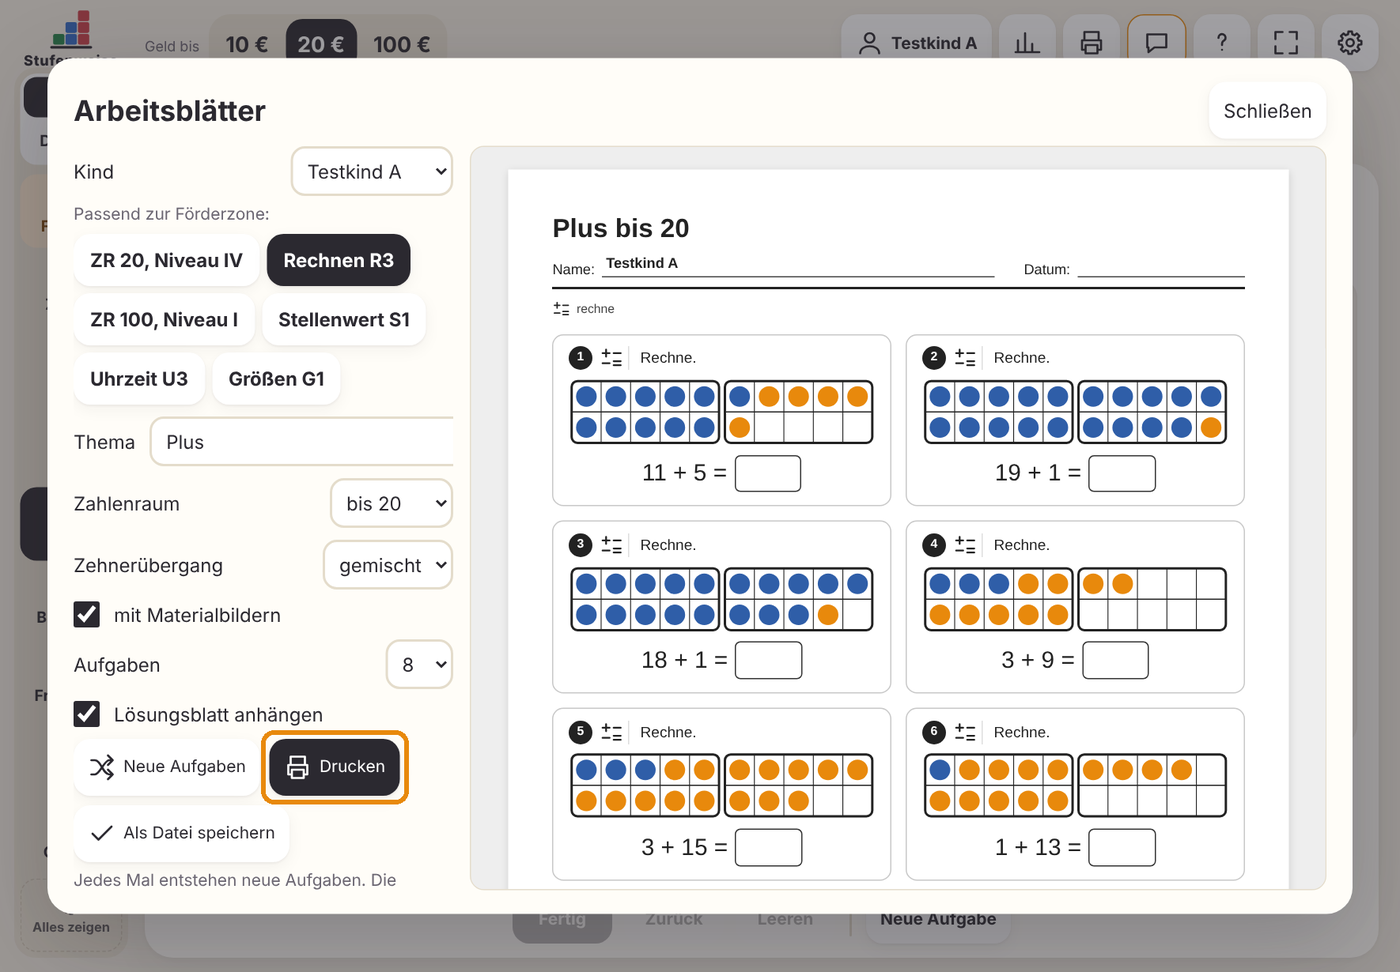
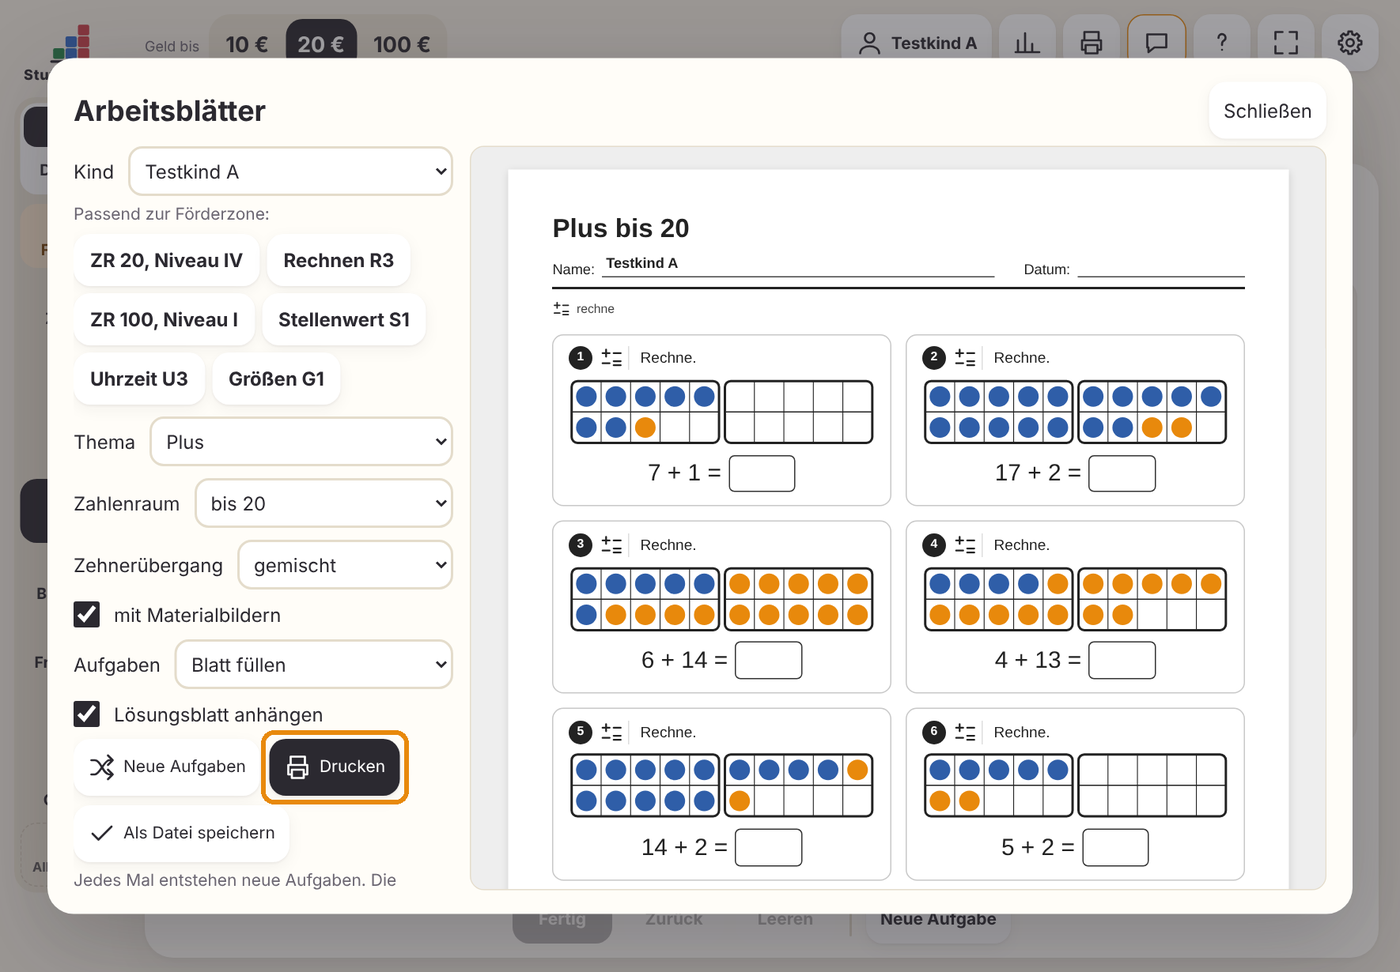
Leiste rückt bei Platzmangel in eigene Zeile, Arbeitsblatt passend zur Rechenstufe
- Einmaleins-Reihe 10 und Uhr „Kalender“ waren auf iPad-Breite verdeckt
- Förderzone R2–R5 setzt den Zehnerübergang des Arbeitsblatts (ohne/mit)
- Auswahlfelder im Arbeitsblatt-Fenster nicht mehr abgeschnitten
- Anleitung: Blatt füllen und Material zeichnen

Claude-Session: https://claude.ai/code/session_01EfzymwAbpKsU1A9roa6mnc

diff --git a/index.html b/index.html
@@ -42,7 +42,7 @@ input:focus{border-color:var(--ink);outline:none}
 .rail{display:flex;flex-direction:column;gap:10px;padding:12px 4px 12px 12px;width:112px;overflow-y:auto;overflow-x:hidden;scrollbar-width:thin}
 main{padding:12px 18px 12px 10px;height:100%;min-height:0;min-width:0;display:flex;flex-direction:column;gap:10px}
 .vh{position:absolute!important;width:1px;height:1px;overflow:hidden;clip:rect(0 0 0 0);white-space:nowrap}
-.topbar{display:flex;align-items:flex-start;gap:12px}
+.topbar{display:flex;align-items:flex-start;gap:12px}.topbar.stack{flex-direction:column-reverse;align-items:stretch;gap:6px}.topbar.stack .top-tools{justify-content:flex-end}
 .topbar .toolbar{flex:1;min-width:0}
 .brand{display:flex;align-items:center;justify-content:center;padding:4px 0 2px}
 .brand svg{width:40px;height:40px;flex:none}
@@ -501,7 +501,7 @@ button.brand{background:none;box-shadow:none;border:0;padding:4px 0 2px;min-heig
 #dlg-sheet{width:min(1100px,96vw);height:min(900px,94vh)}
 #dlg-sheet[open]{display:flex;flex-direction:column}
 #sheet-body{display:grid;grid-template-columns:320px 1fr;gap:14px;flex:1;min-height:0}
-.sheet-form{display:flex;flex-direction:column;gap:10px;overflow:auto}
+.sheet-form{display:flex;flex-direction:column;gap:10px;overflow:auto}.sheet-form .row{min-width:0}.sheet-form select{min-width:0;max-width:100%;flex:1 1 auto}#sh-topic{width:100%}
 .sh-zones{display:flex;flex-wrap:wrap;gap:6px;align-items:center}
 #sh-frame{width:100%;height:100%;border:1px solid var(--line);border-radius:12px;background:#eee}
 @media(min-width:761px){.rail.compact{width:158px}}
@@ -1203,7 +1203,15 @@ function guideFix(){
   if(app.mode === 'read'){ const l = String(app.read.lvl); if(!g.lvlOk(l)){ app.read.lvl = g.first(l[0]); app.read.item = null; } return; }
   if(g.modes && !g.modes.has(app.mode)){ const set = zoneReport(curProfile().id, 'M').zones[0]?.info.offer?.set; if(set && set.mode !== 'read'){ applyOffer(set); return true; } app.mode = 'number'; }
 }
-function render(){ if(guideFix()) return; $('#btn-fb').hidden = settings.fbOn === false; renderTop(); renderWork(); }
+function render(){ if(guideFix()) return; $('#btn-fb').hidden = settings.fbOn === false; renderTop(); renderWork(); fitTop(); }
+/* Passt die Einstellungsleiste nicht neben die Knöpfe oben rechts, rückt sie in eine eigene Zeile (sonst verschwinden z. B. die 10er-Reihe oder „Kalender“) */
+function fitTop(){
+  const tb = document.querySelector('.topbar'), t = tb?.querySelector('.toolbar'); if(!t) return;
+  tb.classList.remove('stack');
+  const r = t.getBoundingClientRect().right;
+  if([...t.querySelectorAll('button, label, span, input, select')].some(e => { const b = e.getBoundingClientRect(); return b.width && b.right > r + 1; })) tb.classList.add('stack');
+}
+addEventListener('resize', () => { clearTimeout(fitTop.t); fitTop.t = setTimeout(fitTop, 120); });
 function renderWork(before){
   $('#btn-say').hidden = true;
   if(app.mode === 'free') return renderFree(before);
@@ -5112,7 +5120,7 @@ function zoneToSheet(key){
   if(ax === 'W') return {topic:`W:${a}`};
   if(ax === 'U') return {topic:`U:${a}`};
   if(ax === 'G') return {topic:`G:${a}`};
-  if(ax === 'R') return a === 'R7' ? {topic:'M:einmaleins'} : {topic:'M:plus', zr: R_CONF[a].range};
+  if(ax === 'R') return a === 'R7' ? {topic:'M:einmaleins'} : {topic:'M:plus', zr: R_CONF[a].range, ue: ({without:'ohne', with:'mit'})[R_CONF[a].ten] || 'egal'};
   return null;
 }
 app.sheet = {pid:null, topic:'M:plus', zr:20, n:'fill', sol:true, mat:true, ue:'egal', wop:'both', wzr:1000};
@@ -5166,7 +5174,7 @@ function sheetFit(fr){
 function openSheets(pid, zoneKey){
   const S = app.sheet;
   S.pid = pid ?? (data.current || 'none');
-  if(zoneKey){ const z = zoneToSheet(zoneKey); if(z){ S.topic = z.topic; if(z.zr) S.zr = z.zr; } }
+  if(zoneKey){ const z = zoneToSheet(zoneKey); if(z){ S.topic = z.topic; if(z.zr) S.zr = z.zr; S.ue = z.ue || 'egal'; } }
   $('#dlg-sheet').showModal(); renderSheets();
 }
 function renderSheets(keep){
@@ -5176,7 +5184,7 @@ function renderSheets(keep){
   const sel = (id, opts, cur) => `<select id="${id}">${opts.map(([v, n]) => `<option value="${v}" ${String(v) === String(cur) ? 'selected' : ''}>${n}</option>`).join('')}</select>`;
   $('#sheet-body').innerHTML = `<div class="sheet-form">
     <label class="row">Kind ${sel('sh-kid', [['none', 'ohne Namen'], ...data.profiles.map(p => [p.id, escHtml(p.name)])], S.pid)}</label>
-    ${zones.length ? `<div class="sh-zones"><span class="note">Passend zur Förderzone:</span>${zones.map(z => `<button class="chip-toggle" data-shzone="${z.key}" aria-pressed="${(() => { const t = zoneToSheet(z.key); return t.topic === S.topic && (!t.zr || t.zr === S.zr); })()}">${escHtml(cellLabel(z.key).replace(/ \(.*\)$/, ''))}</button>`).join('')}</div>` : ''}
+    ${zones.length ? `<div class="sh-zones"><span class="note">Passend zur Förderzone:</span>${zones.map(z => `<button class="chip-toggle" data-shzone="${z.key}" aria-pressed="${(() => { const t = zoneToSheet(z.key); return t.topic === S.topic && (!t.zr || t.zr === S.zr) && (!t.ue || t.ue === S.ue); })()}">${escHtml(cellLabel(z.key).replace(/ \(.*\)$/, ''))}</button>`).join('')}</div>` : ''}
     <label class="row">Thema <select id="sh-topic">${sheetTopics().map(([g, opts]) => `<optgroup label="${g}">${opts.map(([v, n]) => `<option value="${v}" ${v === S.topic ? 'selected' : ''}>${escHtml(n)}</option>`).join('')}</optgroup>`).join('')}</select></label>
     ${isM && key === 'schriftlich' ? `<label class="row">Zahlenraum ${sel('sh-wzr', [[100, 'bis 100 (zweistellig)'], [1000, 'bis 1000 (dreistellig)'], [10000, 'bis 10 000 (vierstellig)']], S.wzr)}</label><label class="row">Rechenart ${sel('sh-wop', [['add', 'nur Plus'], ['sub', 'nur Minus'], ['both', 'gemischt']], S.wop)}</label>` : isM && !['einmaleins'].includes(key) ? `<label class="row">Zahlenraum ${sel('sh-zr', [10, 20, 100, 1000].map(z => [z, 'bis ' + z]), S.zr)}</label>` : ''}
     ${isM && ['plus', 'minus', 'schriftlich'].includes(key) ? `<label class="row">${key === 'schriftlich' ? 'Übertrag' : 'Zehnerübergang'} ${sel('sh-ue', [['egal', 'gemischt'], ['ohne', 'ohne'], ['mit', 'mit']], S.ue)}</label>` : ''}
@@ -5196,7 +5204,7 @@ function sheetShow(){
 }
 function sheetEvents(e){
   const S = app.sheet;
-  const z = e.target.closest('[data-shzone]'); if(z){ const t = zoneToSheet(z.dataset.shzone); S.topic = t.topic; if(t.zr) S.zr = t.zr; return renderSheets(); }
+  const z = e.target.closest('[data-shzone]'); if(z){ const t = zoneToSheet(z.dataset.shzone); S.topic = t.topic; if(t.zr) S.zr = t.zr; S.ue = t.ue || 'egal'; return renderSheets(); }
   if(e.target.closest('#sh-new')) return renderSheets();
   if(e.target.closest('#sh-print')){ let ok = false; try{ const w = $('#sh-frame').contentWindow; w.focus(); w.print(); ok = true; }catch{} if(!ok) toast('Drucken geht hier nicht direkt – bitte „Als Datei speichern“ und die Datei im Browser drucken.'); return; }
   if(e.target.closest('#sh-save')){ const doc = app.sheetDoc; saveFile(`Arbeitsblatt ${doc.title}.html`.replace(/[\\/:*?"<>|]/g, ''), doc.html); }

diff --git a/docs/anleitung.md b/docs/anleitung.md
@@ -100,12 +100,14 @@ Die Übung stellt sich selbst ein, hier zum Beispiel Wechselgeld bis 20 €. Lin
 
 1. Oben auf **Arbeitsblätter** (3) tippen.
 2. Das Kind wählen. Unter „Passend zur Förderzone“ stehen seine Stufen, zum Beispiel „Rechnen R3“.
-3. Bei Bedarf Thema, Zahlenraum, Material und Anzahl der Aufgaben anpassen. Rechts siehst du die Vorschau.
+3. Bei Bedarf Thema, Zahlenraum und Material anpassen. Bei „Aufgaben“ füllt „Blatt füllen“ die Seite mit vollen Reihen; du kannst auch eine feste Zahl wählen. Rechts siehst du die Vorschau.
 4. **Drucken** tippen. „Lösungsblatt anhängen“ legt eine Seite mit den Lösungen dazu.
 
 ![Arbeitsblatt-Generator mit Vorschau](bilder/13_arbeitsblatt.png)
 
 Jedes Mal entstehen neue Aufgaben. Jedes Blatt trägt unten den Hinweis „Stufenweise · © Stefan Hackl · frei nutzbar unter CC BY-SA 4.0“, du darfst es also kopieren und weitergeben.
+
+Alle Materialbilder auf einem Blatt haben dieselbe Größe, Hunderter liegen in Fünferreihen. Neu ist das Thema **Zahlen mit Material zeichnen**: Die Kinder zeichnen Zahlen in der Kurzschreibweise □ Hunderter, | Zehner, • Einer und lesen gezeichnete Zahlen ab. Wählst du eine Förderzone aus dem Rechnen, passt das Blatt genau dazu, zum Beispiel „Plus bis 20, mit Zehnerübergang“ für R3.
 
 ## Schritt 7: Rückmeldung geben
 
